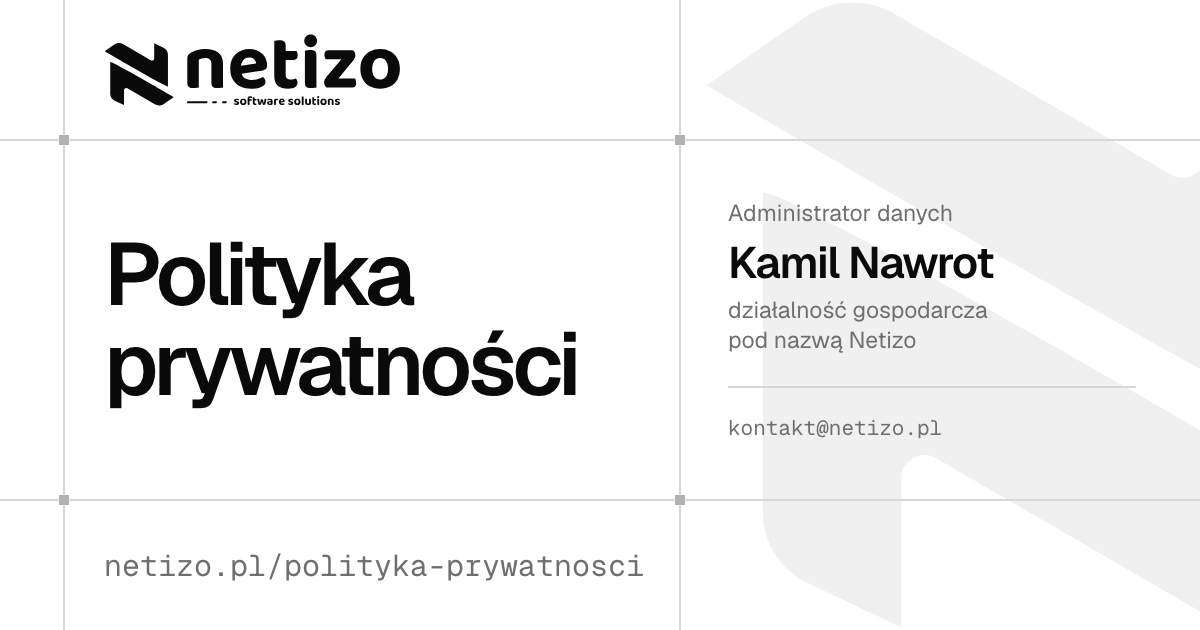
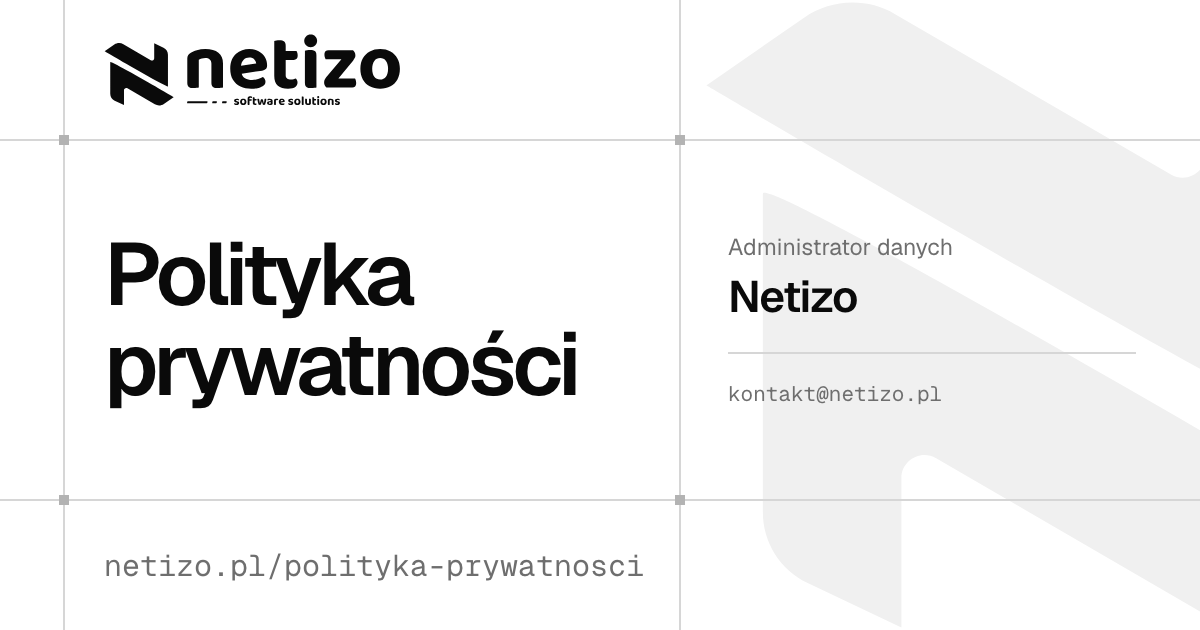
Update

Changed region(s): [[0.5858, 0.3317, 0.925, 0.573], [0.5858, 0.6032, 0.925, 0.6333], [0.6167, 0.6635, 0.8017, 0.6937]]

diff --git a/netizo/og-image/szablon-dokument.html b/netizo/og-image/szablon-dokument.html
@@ -3,8 +3,9 @@
     Obraz do podglądów linków stron prawnych: polityki prywatności i regulaminu, po polsku i po angielsku (1200 × 630 px,
     jasny motyw netizo.pl). Jeden szablon na cztery obrazy; teksty każdego z nich są w generuj.cjs (IMAGES, `values`).
     Ta sama rama co szablon-o-nas.html (logo, poziome linie, szyna z nitami, sygnet N ton w ton), podzielona pionową linią
-    jak nagłówek strony: po lewej tytuł dokumentu, po prawej strona, którą dokument wskazuje (karta z legal-hero.tsx).
-    Tytuły i etykiety muszą się zgadzać z components/legal/*-copy.tsx, a właściciel z `company` w resources/js/lib/site.ts.
+    jak nagłówek strony: po lewej tytuł dokumentu, po prawej strona, którą dokument wskazuje (etykieta jak w karcie
+    z legal-hero.tsx), pod nazwą Netizo, bez imienia i nazwiska właściciela. Tytuły i etykiety muszą się zgadzać
+    z components/legal/*-copy.tsx.
     Bez daty wejścia w życie, żeby obraz nie wymagał zmiany z każdą nową wersją dokumentu.
     Znaczniki w podwójnych klamrach wypełnia generuj.cjs; nie wpisuj ich w komentarzach.
 -->
@@ -158,14 +159,6 @@
             letter-spacing: -0.03em;
         }
 
-        .business {
-            margin-top: 8px;
-            font-size: 23px;
-            line-height: 1.3;
-            color: var(--muted);
-            text-wrap: balance;
-        }
-
         .contact {
             margin-top: 30px;
             padding-top: 26px;
@@ -208,8 +201,7 @@
 
         <div class="party">
             <p class="label">{{party}}</p>
-            <p class="owner">Kamil Nawrot</p>
-            <p class="business">{{business}}</p>
+            <p class="owner">Netizo</p>
             <p class="contact">kontakt@netizo.pl</p>
         </div>
 

diff --git a/CLAUDE.md b/CLAUDE.md
@@ -146,7 +146,7 @@ Brief option values live as constants on `StoreProjectBriefRequest` (and `StoreC
 
 **public/assets/images/og-netizo-o-nas.png**, **og-netizo-about-en.png** - Share images of `/o-nas` and `/en/about`, generated by the same script from `netizo/og-image/szablon-o-nas.html` and `szablon-o-nas-en.html` (same frame, split like the partner image: the hero heading on the left, the co-owners with their avatars and the reply time on the right; names and roles must match `components/about/about-data.ts`). Set in `lang/{pl,en}/about.php` (`seo.image`), checked in `AboutPageTest`.
 
-**public/assets/images/og-netizo-polityka-prywatnosci.png**, **og-netizo-privacy-policy-en.png**, **og-netizo-regulamin.png**, **og-netizo-terms-en.png** - Share images of the legal pages, generated by the same script from one template, `netizo/og-image/szablon-dokument.html`, with each image's texts in `generuj.cjs` (`values`): the document's title on the left, the party it names (`partyLabel`, `company.owner`) and the email on the right, as in `legal-hero`; no effective date, so a new version of a document keeps its image. Set in `lang/{pl,en}/legal.php` (`image`), checked in `LegalPagesTest`.
+**public/assets/images/og-netizo-polityka-prywatnosci.png**, **og-netizo-privacy-policy-en.png**, **og-netizo-regulamin.png**, **og-netizo-terms-en.png** - Share images of the legal pages, generated by the same script from one template, `netizo/og-image/szablon-dokument.html`, with each image's texts in `generuj.cjs` (`values`): the document's title on the left, the party it names (`partyLabel`) as Netizo, without the owner's name, and the email on the right; no effective date, so a new version of a document keeps its image. Set in `lang/{pl,en}/legal.php` (`image`), checked in `LegalPagesTest`.
 
 **public/assets/images/maps/okolice-leszna.svg** - Map of the Leszno area for the about page (expressway and national roads, rivers, lakes, towns; © OpenStreetMap contributors, ODbL), drawn as a mask (black shapes, opacity per layer) so the page paints it in the text colour in both themes. Generated by `node netizo/mapa/generuj.cjs` from Overpass (`--dane file.json` to reuse a saved response, `OVERPASS_URL` for another server) within the bounds in `resources/js/components/about/meeting-area.json`, which the map component uses too.
 
